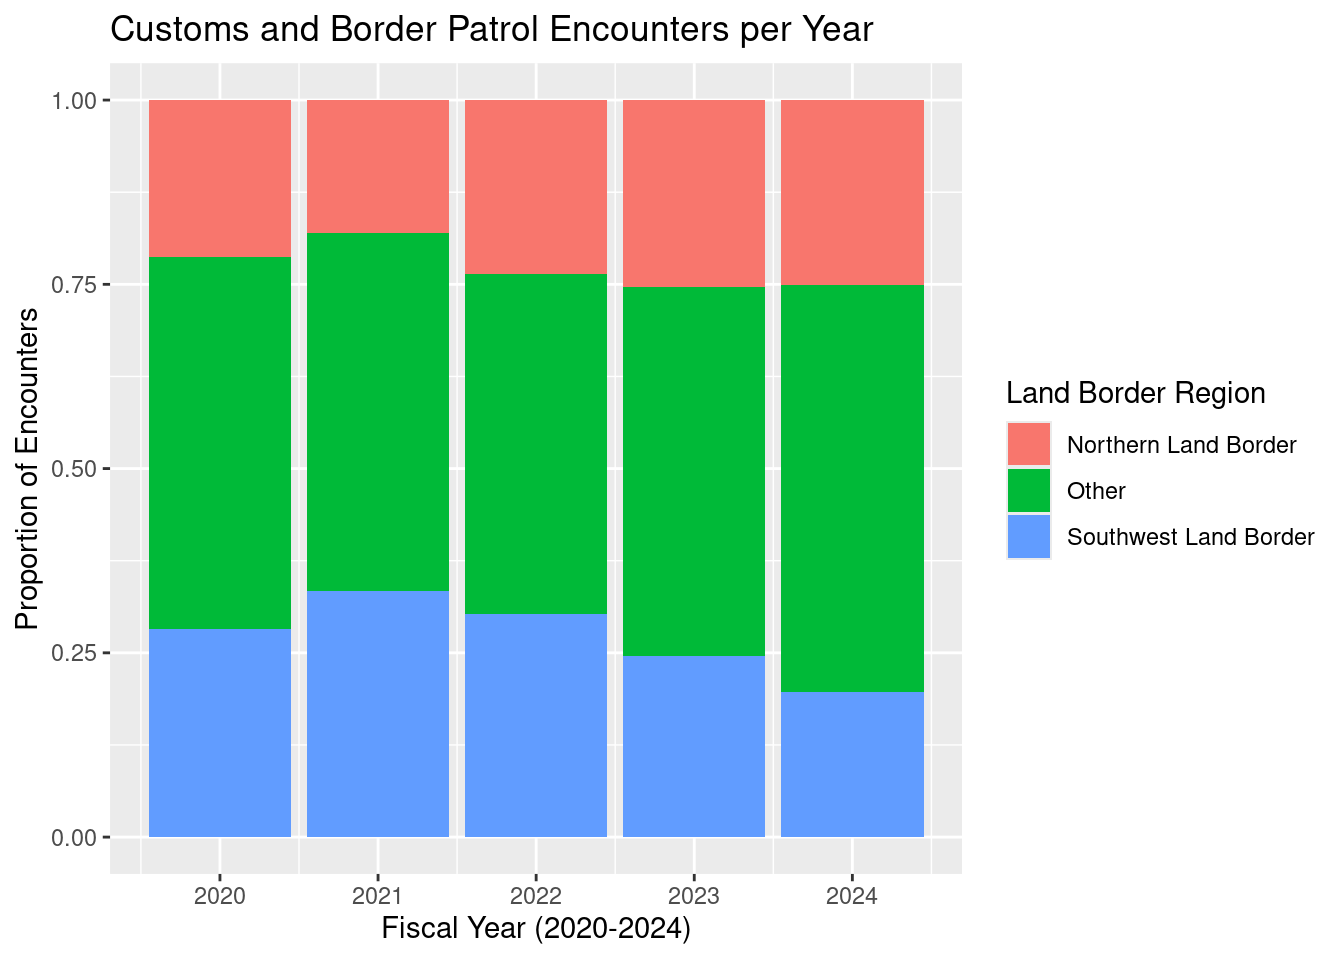
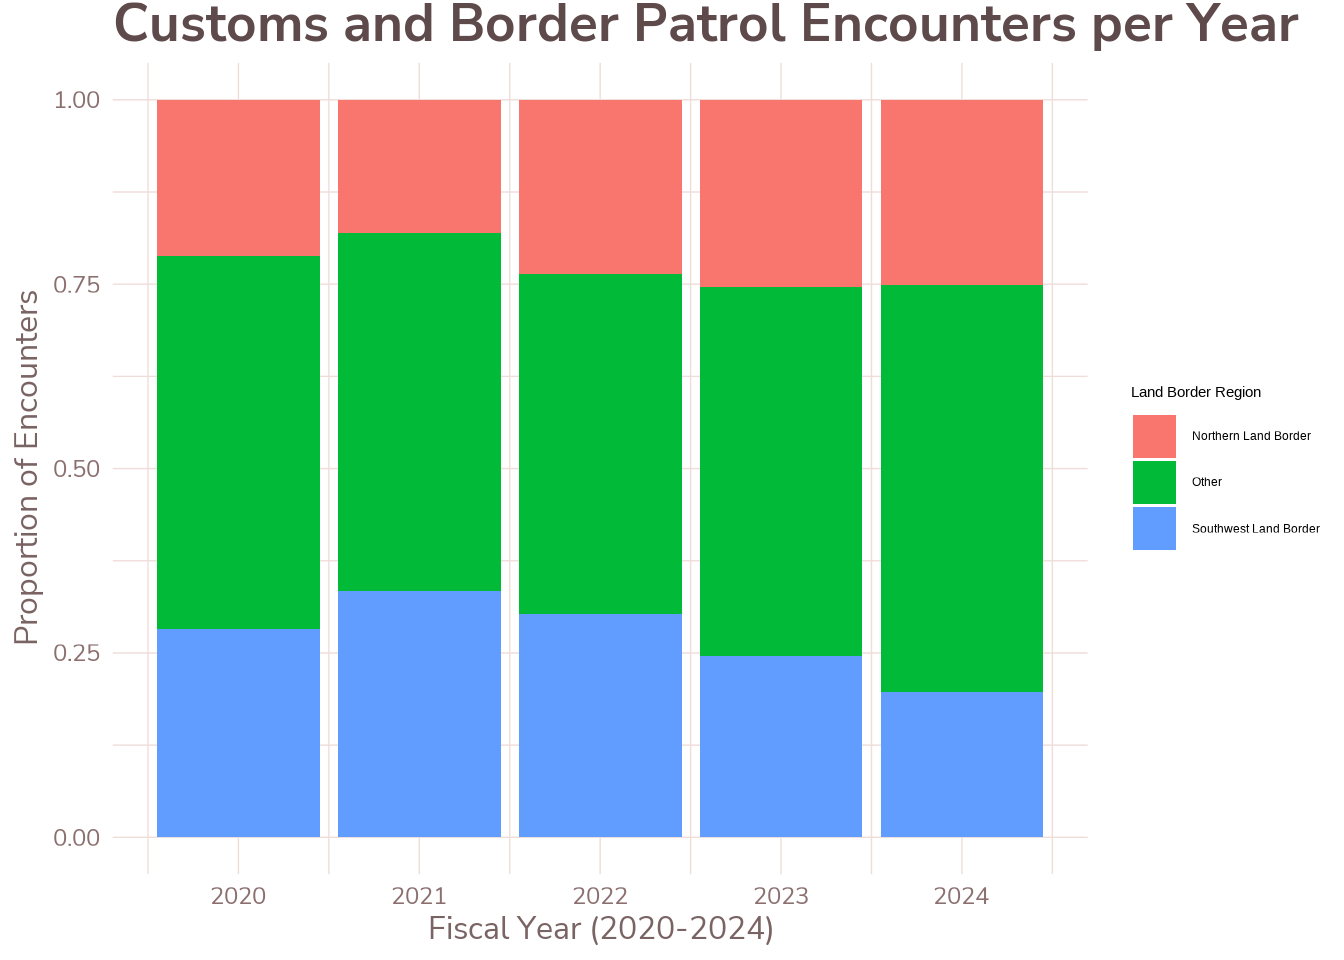
fjiafj

diff --git a/docs/cbpencounters.html b/docs/cbpencounters.html
@@ -23,6 +23,40 @@ ul.task-list li input[type="checkbox"] {
   margin: 0 0.8em 0.2em -1em; /* quarto-specific, see https://github.com/quarto-dev/quarto-cli/issues/4556 */ 
   vertical-align: middle;
 }
+/* CSS for syntax highlighting */
+pre > code.sourceCode { white-space: pre; position: relative; }
+pre > code.sourceCode > span { line-height: 1.25; }
+pre > code.sourceCode > span:empty { height: 1.2em; }
+.sourceCode { overflow: visible; }
+code.sourceCode > span { color: inherit; text-decoration: inherit; }
+div.sourceCode { margin: 1em 0; }
+pre.sourceCode { margin: 0; }
+@media screen {
+div.sourceCode { overflow: auto; }
+}
+@media print {
+pre > code.sourceCode { white-space: pre-wrap; }
+pre > code.sourceCode > span { display: inline-block; text-indent: -5em; padding-left: 5em; }
+}
+pre.numberSource code
+  { counter-reset: source-line 0; }
+pre.numberSource code > span
+  { position: relative; left: -4em; counter-increment: source-line; }
+pre.numberSource code > span > a:first-child::before
+  { content: counter(source-line);
+    position: relative; left: -1em; text-align: right; vertical-align: baseline;
+    border: none; display: inline-block;
+    -webkit-touch-callout: none; -webkit-user-select: none;
+    -khtml-user-select: none; -moz-user-select: none;
+    -ms-user-select: none; user-select: none;
+    padding: 0 4px; width: 4em;
+  }
+pre.numberSource { margin-left: 3em;  padding-left: 4px; }
+div.sourceCode
+  {   }
+@media screen {
+pre > code.sourceCode > span > a:first-child::before { text-decoration: underline; }
+}
 </style>
 
 
@@ -183,27 +217,61 @@ ul.task-list li input[type="checkbox"] {
 </header>
 
 
+<p>For this project, I wanted to examine data from another TidyTuesday data set. This data set holds U.S. Customs and Border Patrol encounter data for fiscal years 2020 to 2024, taken from live CBP systems and data sources. The data set includes data by region, categorized by Northern Land Border, Southwest Land Border, and Nationwide (air, land, and sea modes of transportation) encounters.</p>
+<p>To start off my exploration, I plan on graphing the raw numbers of Customs and Border Patrol encounters from 2020 to 2024 in different regions of the United States in a bar chart.</p>
 <div class="cell">
+<details class="code-fold">
+<summary>Show the code</summary>
+<div class="sourceCode cell-code" id="cb1"><pre class="sourceCode r code-with-copy"><code class="sourceCode r"><span id="cb1-1"><a href="#cb1-1" aria-hidden="true" tabindex="-1"></a><span class="co">#installing necessary packages for my data exploration </span></span>
+<span id="cb1-2"><a href="#cb1-2" aria-hidden="true" tabindex="-1"></a><span class="fu">library</span>(tidytuesdayR)</span>
+<span id="cb1-3"><a href="#cb1-3" aria-hidden="true" tabindex="-1"></a><span class="fu">library</span>(ggplot2)</span>
+<span id="cb1-4"><a href="#cb1-4" aria-hidden="true" tabindex="-1"></a><span class="fu">source</span>(<span class="st">"R/theme_asuva.R"</span>)</span>
+<span id="cb1-5"><a href="#cb1-5" aria-hidden="true" tabindex="-1"></a><span class="fu">library</span>(readr)</span>
+<span id="cb1-6"><a href="#cb1-6" aria-hidden="true" tabindex="-1"></a></span>
+<span id="cb1-7"><a href="#cb1-7" aria-hidden="true" tabindex="-1"></a><span class="co">#loading the data set</span></span>
+<span id="cb1-8"><a href="#cb1-8" aria-hidden="true" tabindex="-1"></a>cbp_state <span class="ot">&lt;-</span> readr<span class="sc">::</span><span class="fu">read_csv</span>(<span class="st">'https://raw.githubusercontent.com/rfordatascience/tidytuesday/main/data/2024/2024-11-26/cbp_state.csv'</span>)</span>
+<span id="cb1-9"><a href="#cb1-9" aria-hidden="true" tabindex="-1"></a></span>
+<span id="cb1-10"><a href="#cb1-10" aria-hidden="true" tabindex="-1"></a><span class="co">#graphing the data in a bar chart</span></span>
+<span id="cb1-11"><a href="#cb1-11" aria-hidden="true" tabindex="-1"></a><span class="fu">ggplot</span>(cbp_state, <span class="fu">aes</span>(<span class="at">x =</span> fiscal_year, <span class="at">fill =</span> land_border_region)) <span class="sc">+</span></span>
+<span id="cb1-12"><a href="#cb1-12" aria-hidden="true" tabindex="-1"></a>  <span class="fu">geom_bar</span>() <span class="sc">+</span></span>
+<span id="cb1-13"><a href="#cb1-13" aria-hidden="true" tabindex="-1"></a>  <span class="fu">labs</span>(<span class="at">title =</span> <span class="st">"Customs and Border Patrol Encounters per Year"</span>, </span>
+<span id="cb1-14"><a href="#cb1-14" aria-hidden="true" tabindex="-1"></a>       <span class="at">x =</span> <span class="st">"Fiscal Year (2020-2024)"</span>, </span>
+<span id="cb1-15"><a href="#cb1-15" aria-hidden="true" tabindex="-1"></a>       <span class="at">y =</span> <span class="st">"Number of Encounters"</span>, </span>
+<span id="cb1-16"><a href="#cb1-16" aria-hidden="true" tabindex="-1"></a>       <span class="at">fill =</span> <span class="st">"Land Border Region"</span>) <span class="sc">+</span></span>
+<span id="cb1-17"><a href="#cb1-17" aria-hidden="true" tabindex="-1"></a>    <span class="fu">theme_asuva</span>()</span></code><button title="Copy to Clipboard" class="code-copy-button"><i class="bi"></i></button></pre></div>
+</details>
 <div class="cell-output-display">
 <div>
 <figure class="figure">
-<p><img src="cbpencounters_files/figure-html/unnamed-chunk-1-1.png" class="img-fluid figure-img" width="672"></p>
+<p><img src="cbpencounters_files/figure-html/unnamed-chunk-1-1.png" class="img-fluid figure-img" alt="Stacked bar chart of U.S. Customs and Border Patrol encounters grouped by year and stacked by Land Border Region (Northern Land Border, Southern Land Border, and Other)." width="672"></p>
 </figure>
 </div>
 </div>
 </div>
-<p>The graph above shows the number of Customs and Border Patrol encounters from 2020 to 2024 in different regions of the United States. The graph implies that the most recorded encounters within this time period took place in 2023, with more than 12500 encounters recorded. By simply glancing at the graph, I am compelled to conclude that the greatest proportion of encounters took place in the region(s) that belong to the “Other” category. Unfortunately, since the data is limited, we do not know what these specific areas may be.</p>
-<p>To check the regional proportions more accurately, I created the graph below. This takes the bar graph above but sets the y-axis to display the proportion of encounters rather than the raw count. In this graph, it is easier to identify details specific to each region. For example, 2021 is the year where the Southwest Land Border had the greatest proportion of encounters relative to other years, and 2023/2024 are the year(s) where the Northwest Land Border had the greatest proportion of encounters relative to other years.</p>
+<p>The graph implies that the most recorded encounters within this time period took place in 2023, with more than 12500 encounters recorded. By simply glancing at the graph, I am compelled to conclude that the greatest proportion of encounters took place in the region(s) that belong to the “Other” category. Unfortunately, since the data is limited, we do not know what these specific areas (states, cities) may be or what type of encounter it was in particular (air, land, or sea).</p>
+<p>To check the regional proportions more accurately, I created the graph below. This takes the bar graph above but sets the y-axis to display the proportion of encounters rather than the raw count.</p>
 <div class="cell">
+<details class="code-fold">
+<summary>Show the code</summary>
+<div class="sourceCode cell-code" id="cb2"><pre class="sourceCode r code-with-copy"><code class="sourceCode r"><span id="cb2-1"><a href="#cb2-1" aria-hidden="true" tabindex="-1"></a><span class="fu">ggplot</span>(cbp_state, <span class="fu">aes</span>(<span class="at">x =</span> fiscal_year, <span class="at">fill =</span> land_border_region)) <span class="sc">+</span></span>
+<span id="cb2-2"><a href="#cb2-2" aria-hidden="true" tabindex="-1"></a>  <span class="fu">geom_bar</span>(<span class="at">position=</span><span class="st">"fill"</span>) <span class="sc">+</span></span>
+<span id="cb2-3"><a href="#cb2-3" aria-hidden="true" tabindex="-1"></a>  <span class="fu">scale_y_continuous</span>(<span class="st">"Proportion of Encounters"</span>) <span class="sc">+</span></span>
+<span id="cb2-4"><a href="#cb2-4" aria-hidden="true" tabindex="-1"></a>  <span class="fu">labs</span>(<span class="at">title =</span> <span class="st">"Customs and Border Patrol Encounters per Year"</span>, </span>
+<span id="cb2-5"><a href="#cb2-5" aria-hidden="true" tabindex="-1"></a>       <span class="at">x =</span> <span class="st">"Fiscal Year (2020-2024)"</span>, </span>
+<span id="cb2-6"><a href="#cb2-6" aria-hidden="true" tabindex="-1"></a>       <span class="at">y =</span> <span class="st">"Number of Encounters"</span>, </span>
+<span id="cb2-7"><a href="#cb2-7" aria-hidden="true" tabindex="-1"></a>       <span class="at">fill =</span> <span class="st">"Land Border Region"</span>) <span class="sc">+</span></span>
+<span id="cb2-8"><a href="#cb2-8" aria-hidden="true" tabindex="-1"></a>  <span class="fu">theme_asuva</span>()</span></code><button title="Copy to Clipboard" class="code-copy-button"><i class="bi"></i></button></pre></div>
+</details>
 <div class="cell-output-display">
 <div>
 <figure class="figure">
-<p><img src="cbpencounters_files/figure-html/unnamed-chunk-2-1.png" class="img-fluid figure-img" width="672"></p>
+<p><img src="cbpencounters_files/figure-html/unnamed-chunk-2-1.png" class="img-fluid figure-img" alt="Stacked bar chart showing proportions of U.S. Customs and Border Patrol encounters grouped by year and stacked by Land Border Region (Northern Land Border, Southern Land Border, and Other)." width="672"></p>
 </figure>
 </div>
 </div>
 </div>
-<p>Credits:</p>
+<p>In this graph, it is easier to identify details specific to each region. For example, 2021 is the year where the Southwest Land Border had the greatest proportion of encounters relative to other years, and 2023/2024 are the year(s) where the Northwest Land Border had the greatest proportion of encounters relative to other years.</p>
+<p><u>Credits:</u></p>
 <p><strong>Data:</strong> TidyTuesday U.S. Customs and Border Protection (CBP) Encounter Data, <a href="https://github.com/rfordatascience/tidytuesday/blob/main/data/2024/2024-11-26/readme.md" class="uri">https://github.com/rfordatascience/tidytuesday/blob/main/data/2024/2024-11-26/readme.md</a></p>
 <p><strong>Original Source:</strong> U.S. Customs and Border Protection, <a href="https://www.cbp.gov/document/stats/nationwide-encounters" class="uri">https://www.cbp.gov/document/stats/nationwide-encounters</a></p>
 
